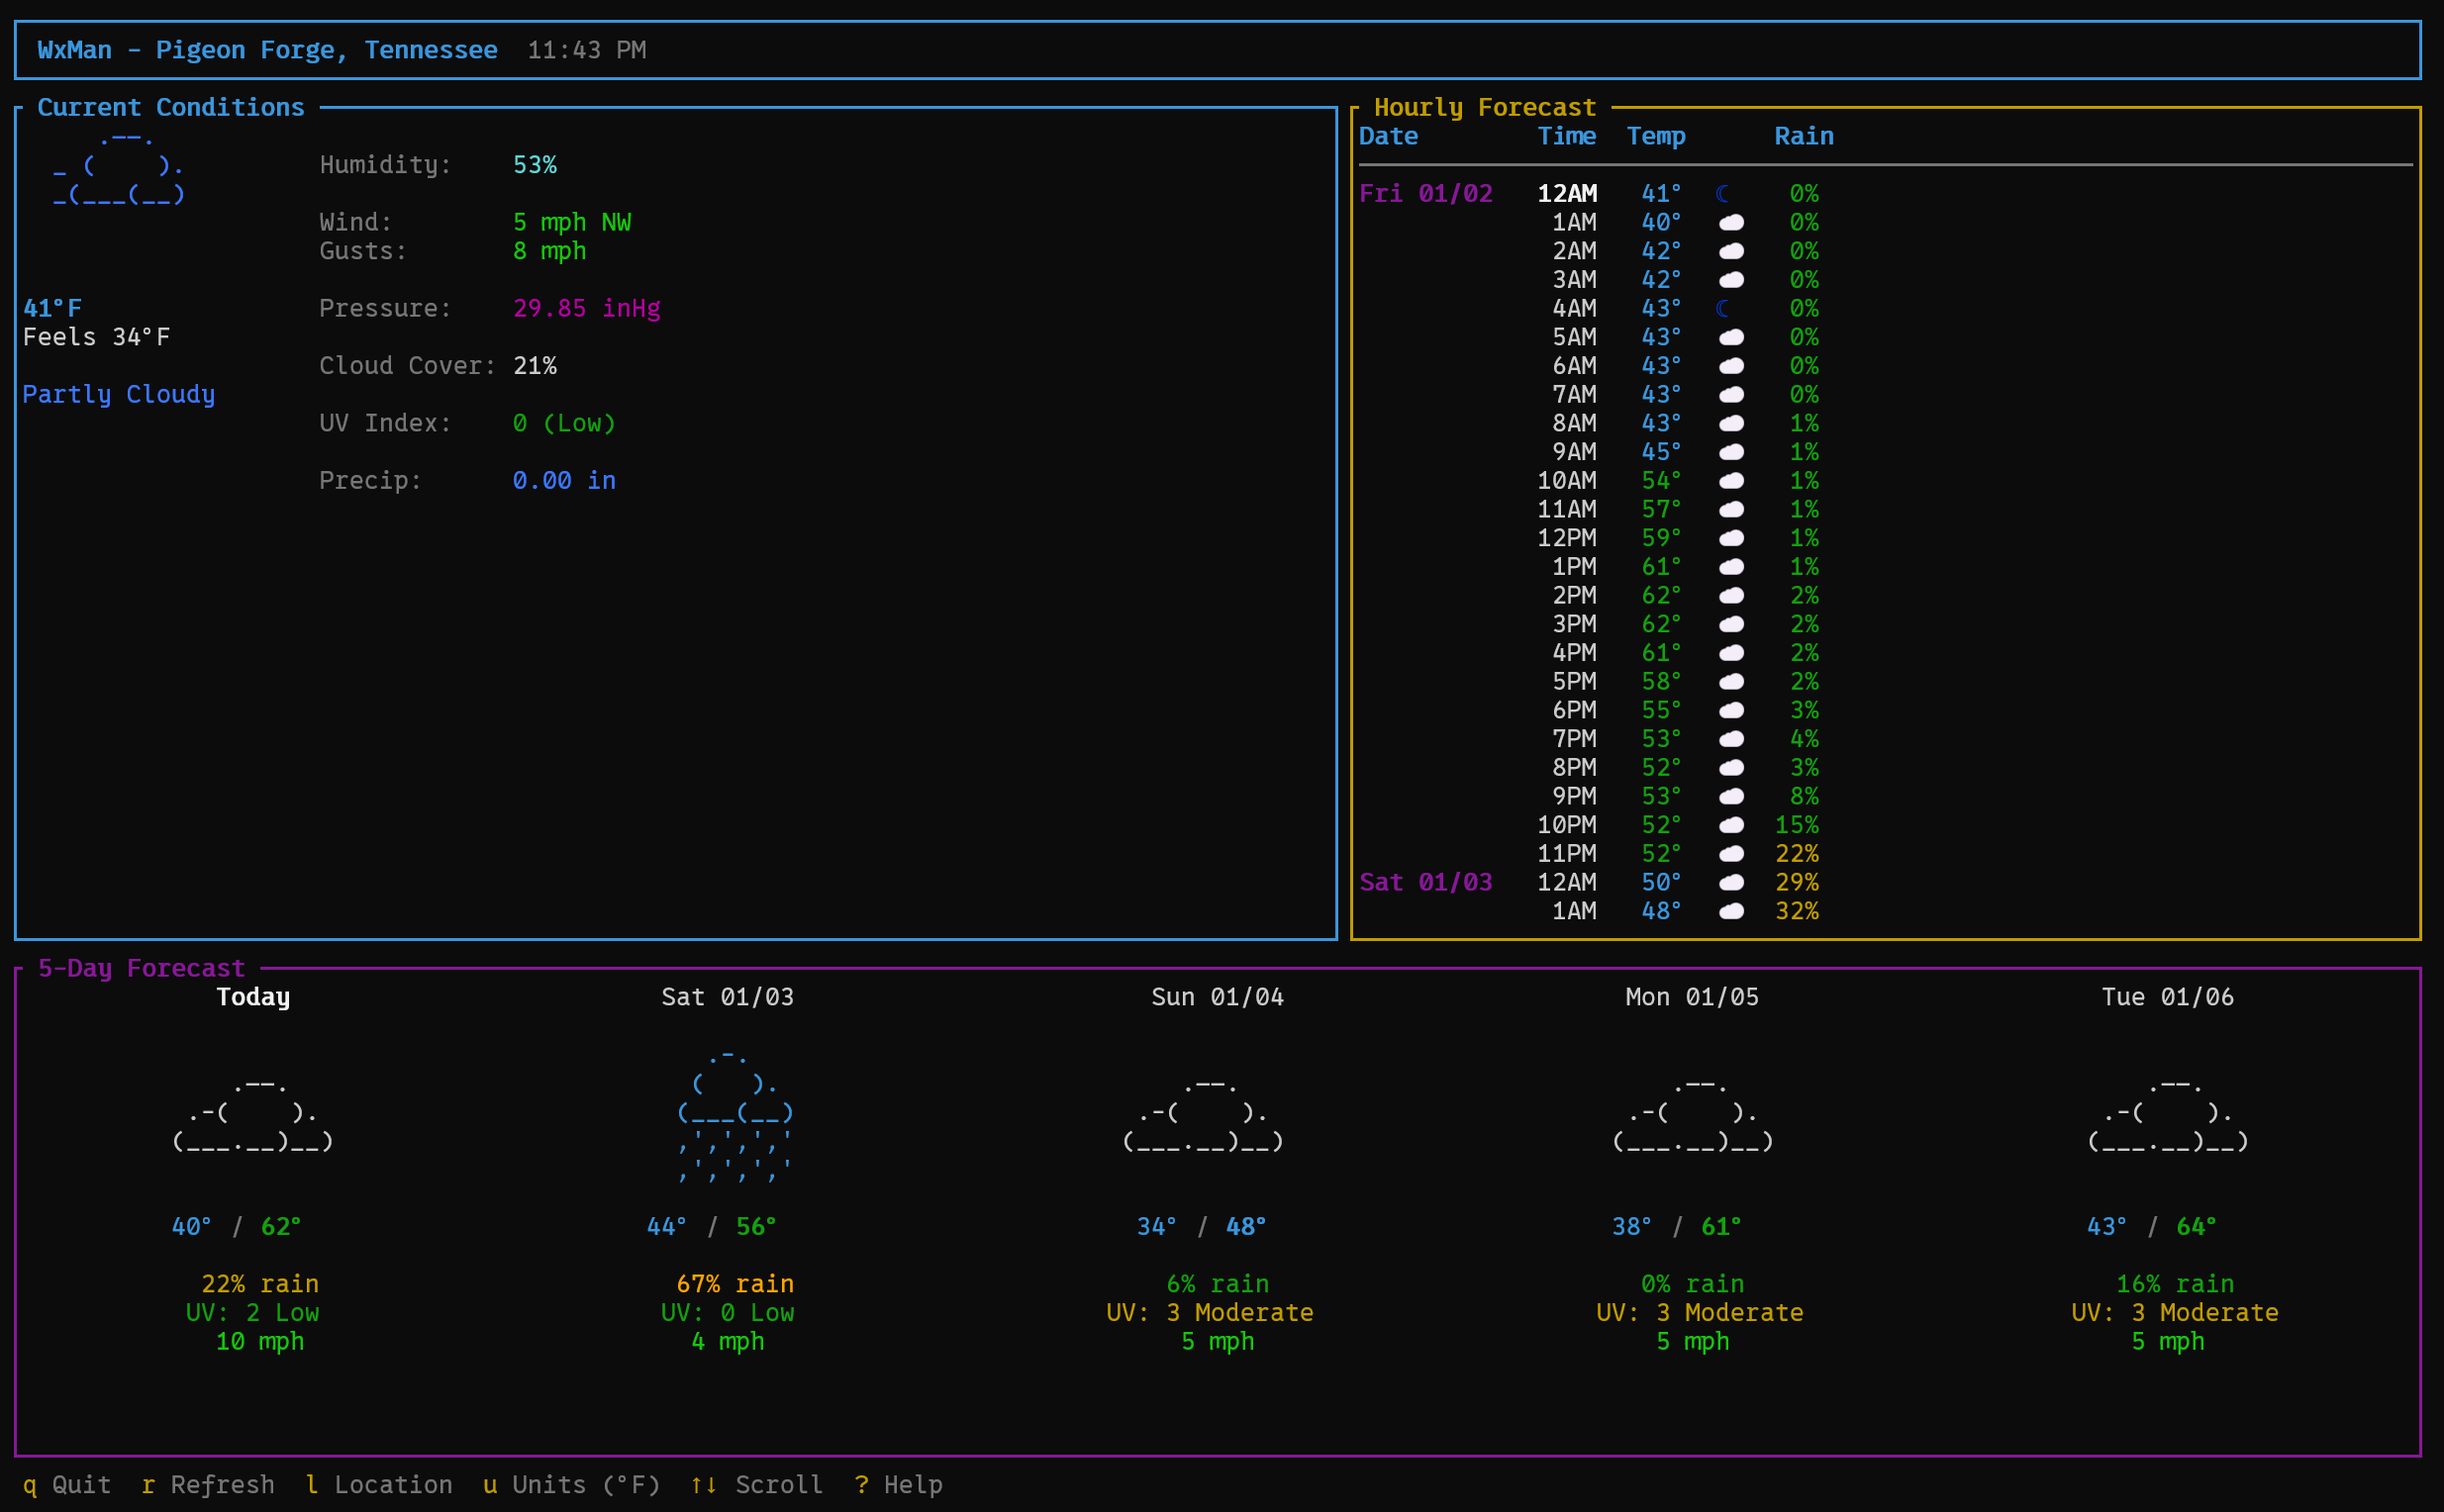
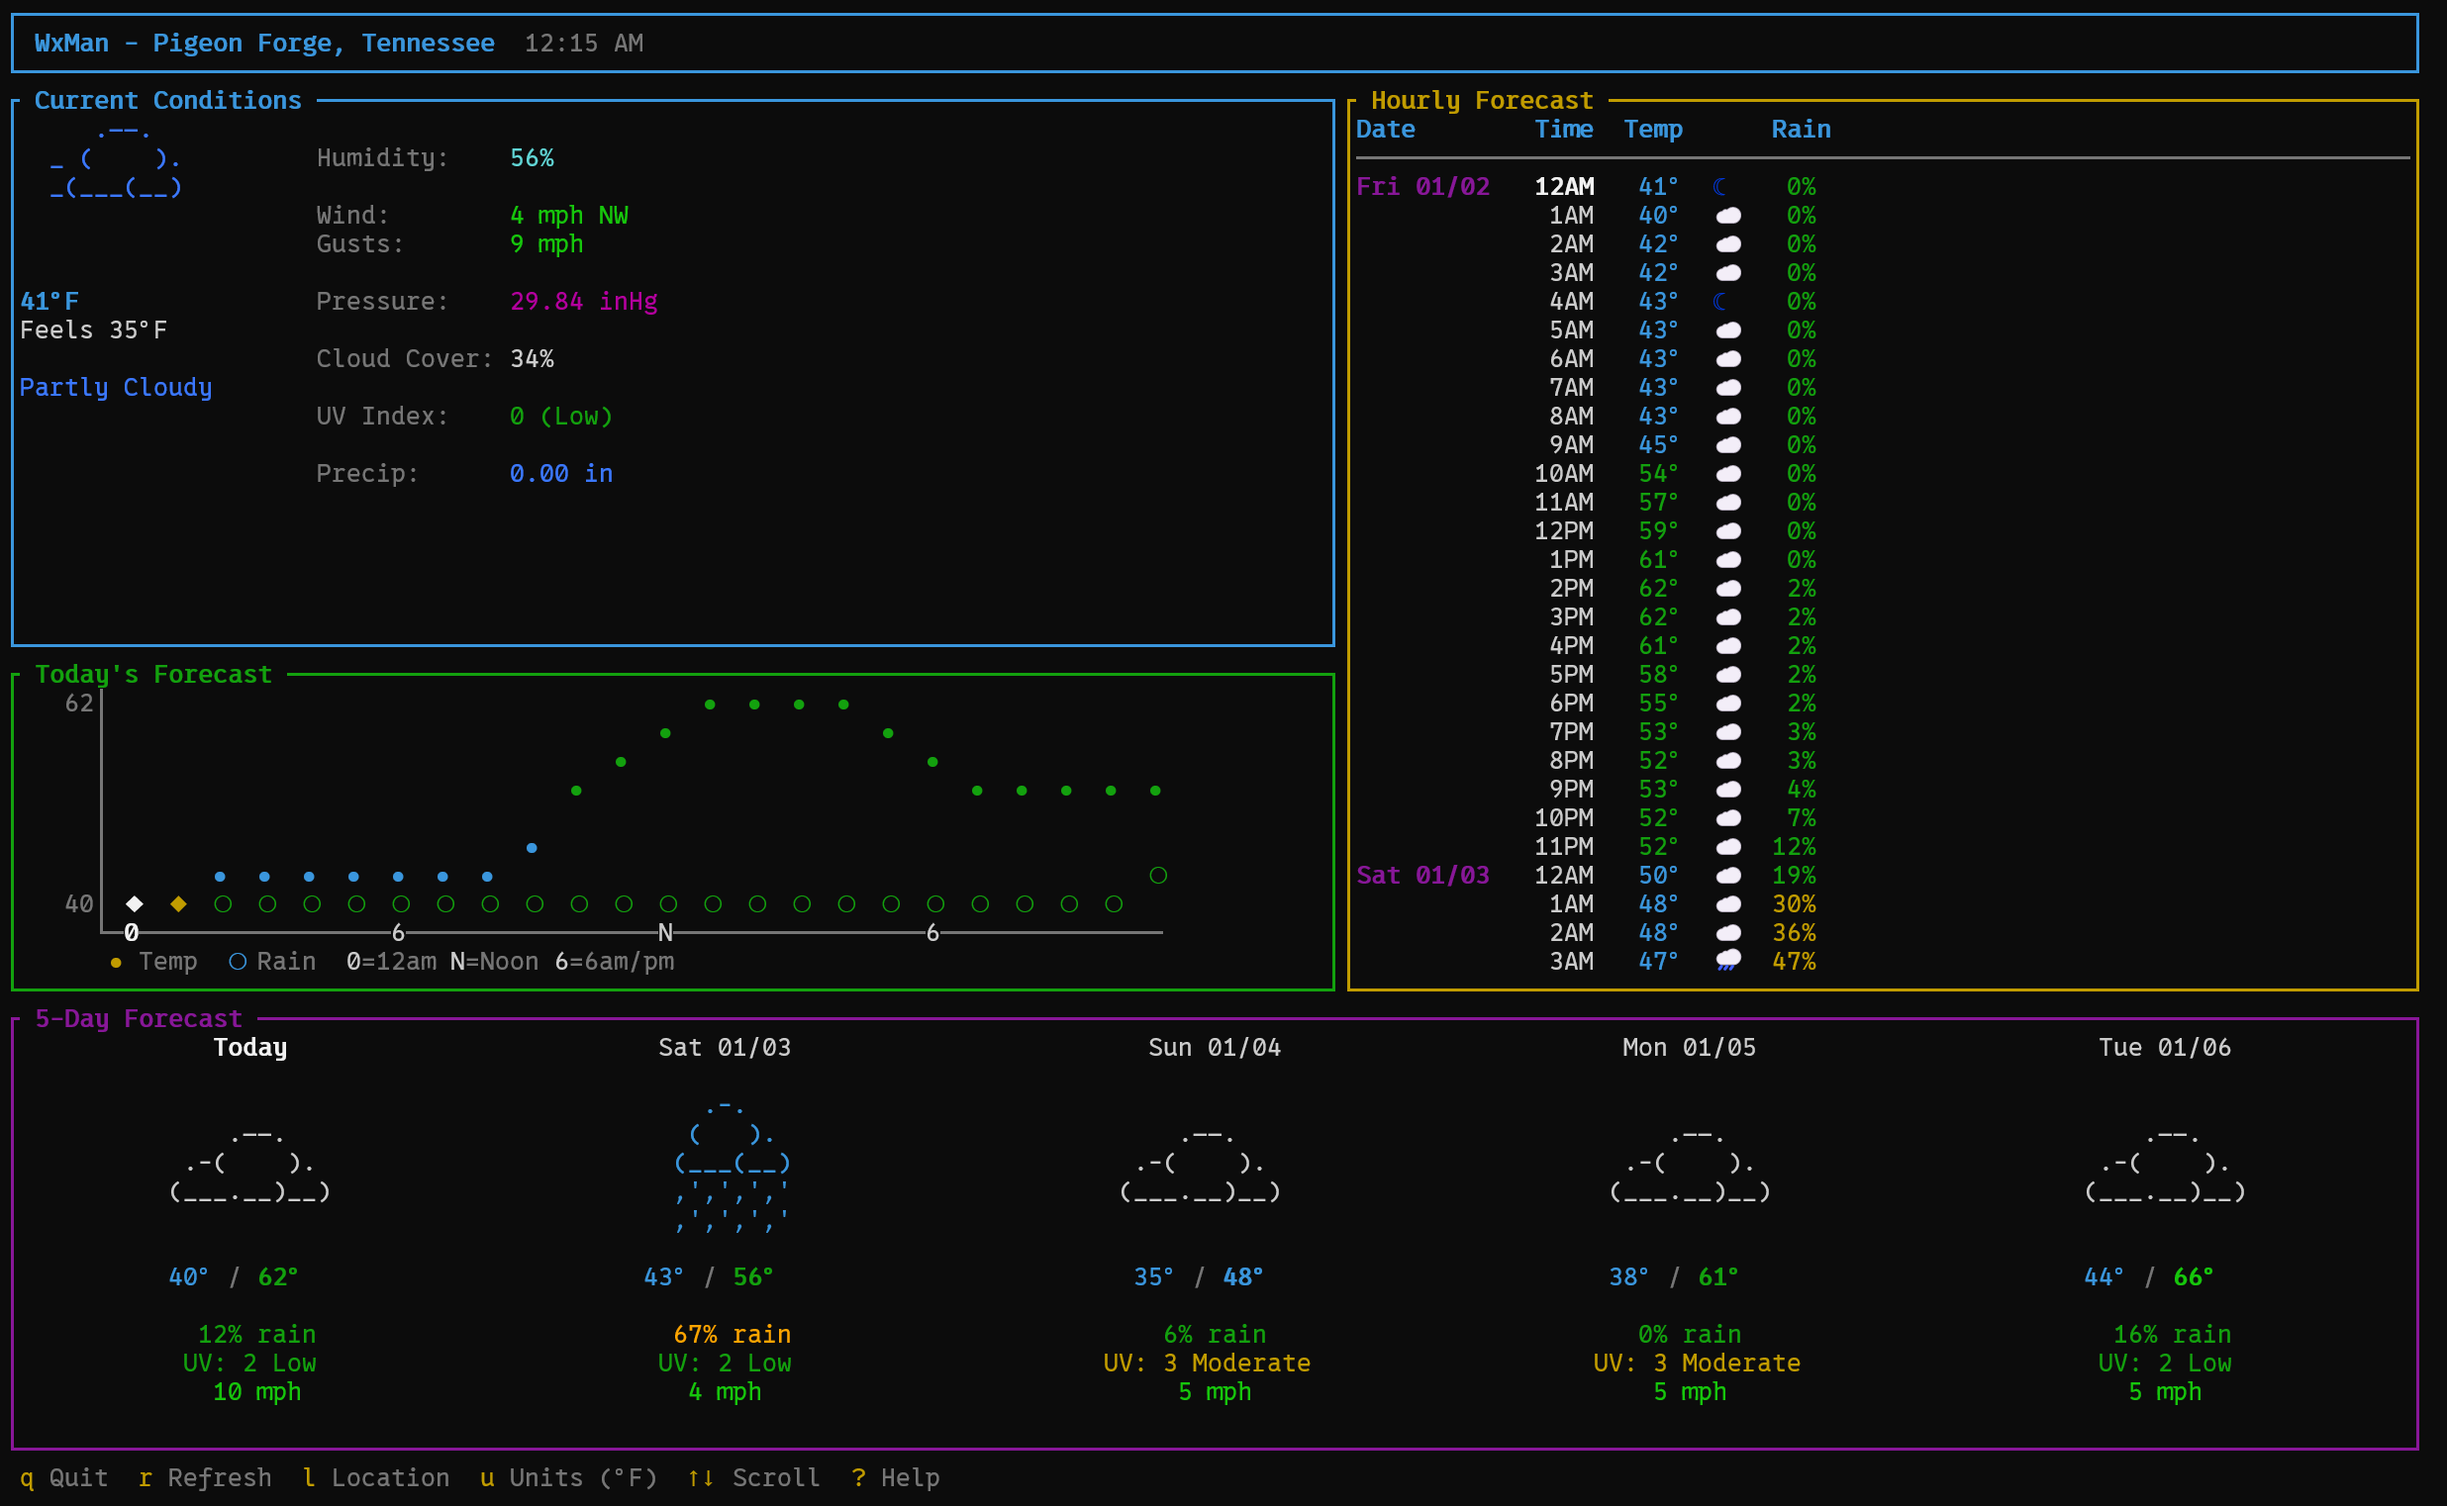
feat: Introduce hourly temperature and precipitation chart and refactor UI layout to integrate it.

diff --git a/src/ui/chart.rs b/src/ui/chart.rs
@@ -1,0 +1,250 @@
+use ratatui::{
+    layout::Rect,
+    style::{Color, Modifier, Style},
+    text::{Line, Span},
+    widgets::{Block, Borders, Paragraph},
+    Frame,
+};
+
+use crate::config::UnitsConfig;
+use crate::models::HourlyForecast;
+use chrono::{Local, NaiveDateTime, Timelike};
+
+const CHART_HEIGHT: usize = 8;
+
+pub fn render_today_chart(
+    frame: &mut Frame,
+    area: Rect,
+    hourly: &[HourlyForecast],
+    units: &UnitsConfig,
+) {
+    let block = Block::default()
+        .title(" Today's Forecast ")
+        .title_style(Style::default().fg(Color::Green).add_modifier(Modifier::BOLD))
+        .borders(Borders::ALL)
+        .border_style(Style::default().fg(Color::Green));
+
+    let inner = block.inner(area);
+    frame.render_widget(block, area);
+
+    let now = Local::now();
+    let today = now.date_naive();
+    let current_hour = now.hour();
+
+    // Get all of today's hourly data (full 24 hours)
+    let today_hours: Vec<&HourlyForecast> = hourly
+        .iter()
+        .filter(|h| {
+            if let Ok(dt) = NaiveDateTime::parse_from_str(&h.time, "%Y-%m-%dT%H:%M") {
+                dt.date() == today
+            } else {
+                false
+            }
+        })
+        .collect();
+
+    if today_hours.is_empty() || inner.width < 20 || inner.height < 6 {
+        let msg = Paragraph::new("Not enough data");
+        frame.render_widget(msg, inner);
+        return;
+    }
+
+    // Find temperature range
+    let temps: Vec<f64> = today_hours.iter().map(|h| h.temperature).collect();
+    let temp_min = temps.iter().cloned().fold(f64::INFINITY, f64::min);
+    let temp_max = temps.iter().cloned().fold(f64::NEG_INFINITY, f64::max);
+    let temp_range = (temp_max - temp_min).max(1.0);
+
+    // Calculate available width for the chart (leave room for labels)
+    let label_width = 6; // "100% " or " 72° "
+    let chart_width = (inner.width as usize).saturating_sub(label_width);
+    
+    if chart_width == 0 || today_hours.is_empty() {
+        return;
+    }
+
+    // Calculate how many characters per hour we can use
+    let chars_per_hour = (chart_width / today_hours.len()).max(1);
+    let total_hours = today_hours.len();
+
+    // Build the chart
+    let mut lines: Vec<Line> = Vec::new();
+
+    let is_fahrenheit = units.temperature == crate::config::TemperatureUnit::Fahrenheit;
+    
+    // Chart rows (from top to bottom: high temp to low temp)
+    for row in 0..CHART_HEIGHT {
+        let mut spans: Vec<Span> = Vec::new();
+        
+        // Left label
+        if row == 0 {
+            spans.push(Span::styled(
+                format!("{:>5}", temp_max as i32),
+                Style::default().fg(Color::DarkGray),
+            ));
+        } else if row == CHART_HEIGHT - 1 {
+            spans.push(Span::styled(
+                format!("{:>5}", temp_min as i32),
+                Style::default().fg(Color::DarkGray),
+            ));
+        } else {
+            spans.push(Span::raw("     "));
+        }
+        
+        // Separator
+        spans.push(Span::styled("│", Style::default().fg(Color::DarkGray)));
+
+        // Chart content - draw each hour with proper spacing
+        for (i, hour) in today_hours.iter().enumerate() {
+            let hour_num = if let Ok(dt) = NaiveDateTime::parse_from_str(&hour.time, "%Y-%m-%dT%H:%M") {
+                dt.hour()
+            } else {
+                0
+            };
+            
+            let is_current = hour_num == current_hour;
+
+            // Calculate temperature position (0 = bottom, CHART_HEIGHT-1 = top)
+            let temp_normalized = (hour.temperature - temp_min) / temp_range;
+            let temp_row = ((CHART_HEIGHT - 1) as f64 * (1.0 - temp_normalized)).round() as usize;
+
+            // Calculate rain position
+            let rain_normalized = hour.precipitation_probability as f64 / 100.0;
+            let rain_row = ((CHART_HEIGHT - 1) as f64 * (1.0 - rain_normalized)).round() as usize;
+
+            // Determine what to draw at this position
+            let (ch, color) = if row == temp_row && row == rain_row {
+                // Both temp and rain at same position
+                ('◆', if is_current { Color::White } else { Color::Yellow })
+            } else if row == temp_row {
+                // Temperature point
+                let temp_color = if is_fahrenheit {
+                    temp_to_color(hour.temperature)
+                } else {
+                    temp_to_color(hour.temperature * 9.0 / 5.0 + 32.0)
+                };
+                ('●', if is_current { Color::White } else { temp_color })
+            } else if row == rain_row {
+                // Rain point
+                let rain_color = rain_to_color(hour.precipitation_probability);
+                ('○', if is_current { Color::White } else { rain_color })
+            } else {
+                (' ', Color::DarkGray)
+            };
+
+            let style = if is_current {
+                Style::default().fg(color).add_modifier(Modifier::BOLD)
+            } else {
+                Style::default().fg(color)
+            };
+
+            // Draw the character centered in its slot
+            let padding_before = (chars_per_hour - 1) / 2;
+            let padding_after = chars_per_hour - 1 - padding_before;
+            
+            if padding_before > 0 {
+                spans.push(Span::raw(" ".repeat(padding_before)));
+            }
+            spans.push(Span::styled(ch.to_string(), style));
+            if padding_after > 0 && i < total_hours - 1 {
+                spans.push(Span::raw(" ".repeat(padding_after)));
+            }
+        }
+
+        lines.push(Line::from(spans));
+    }
+
+    // Add hour labels at bottom
+    let mut hour_spans: Vec<Span> = Vec::new();
+    hour_spans.push(Span::raw("     ")); // Label spacer
+    hour_spans.push(Span::styled("└", Style::default().fg(Color::DarkGray)));
+    
+    for (i, hour) in today_hours.iter().enumerate() {
+        let hour_num = if let Ok(dt) = NaiveDateTime::parse_from_str(&hour.time, "%Y-%m-%dT%H:%M") {
+            dt.hour()
+        } else {
+            0
+        };
+        
+        let is_current = hour_num == current_hour;
+        
+        // Show hour label at key hours or current
+        let show_label = hour_num % 6 == 0 || is_current;
+        
+        let label_char = if show_label {
+            if hour_num == 0 {
+                "0"
+            } else if hour_num == 6 {
+                "6"
+            } else if hour_num == 12 {
+                "N"
+            } else if hour_num == 18 {
+                "6"
+            } else {
+                &format!("{}", hour_num % 12)
+            }
+        } else {
+            "─"
+        };
+
+        let style = if is_current {
+            Style::default().fg(Color::White).add_modifier(Modifier::BOLD)
+        } else if show_label {
+            Style::default().fg(Color::Gray)
+        } else {
+            Style::default().fg(Color::DarkGray)
+        };
+        
+        // Center label in slot
+        let padding_before = (chars_per_hour - 1) / 2;
+        let padding_after = chars_per_hour - 1 - padding_before;
+        
+        if padding_before > 0 {
+            hour_spans.push(Span::styled("─".repeat(padding_before), Style::default().fg(Color::DarkGray)));
+        }
+        hour_spans.push(Span::styled(label_char.to_string(), style));
+        if padding_after > 0 && i < total_hours - 1 {
+            hour_spans.push(Span::styled("─".repeat(padding_after), Style::default().fg(Color::DarkGray)));
+        }
+    }
+    lines.push(Line::from(hour_spans));
+
+    // Add legend
+    lines.push(Line::from(vec![
+        Span::raw("      "),
+        Span::styled("●", Style::default().fg(Color::Yellow)),
+        Span::styled(" Temp  ", Style::default().fg(Color::DarkGray)),
+        Span::styled("○", Style::default().fg(Color::Cyan)),
+        Span::styled(" Rain  ", Style::default().fg(Color::DarkGray)),
+        Span::styled("0", Style::default().fg(Color::Gray)),
+        Span::styled("=12am ", Style::default().fg(Color::DarkGray)),
+        Span::styled("N", Style::default().fg(Color::Gray)),
+        Span::styled("=Noon ", Style::default().fg(Color::DarkGray)),
+        Span::styled("6", Style::default().fg(Color::Gray)),
+        Span::styled("=6am/pm", Style::default().fg(Color::DarkGray)),
+    ]));
+
+    let chart = Paragraph::new(lines);
+    frame.render_widget(chart, inner);
+}
+
+fn temp_to_color(temp_f: f64) -> Color {
+    match temp_f as i32 {
+        ..=32 => Color::LightBlue,
+        33..=50 => Color::Cyan,
+        51..=65 => Color::Green,
+        66..=75 => Color::LightGreen,
+        76..=85 => Color::Yellow,
+        86..=95 => Color::Rgb(255, 165, 0),
+        _ => Color::Red,
+    }
+}
+
+fn rain_to_color(rain: i32) -> Color {
+    match rain {
+        0..=20 => Color::Green,
+        21..=50 => Color::Yellow,
+        51..=70 => Color::Rgb(255, 165, 0),
+        _ => Color::Cyan,
+    }
+}

diff --git a/src/ui/render.rs b/src/ui/render.rs
@@ -7,6 +7,7 @@ use ratatui::{
 };
 
 use crate::app::{App, AppState, UnitMenuField};
+use crate::ui::chart::render_today_chart;
 use crate::ui::current::render_current_weather;
 use crate::ui::daily::render_daily_forecast;
 use crate::ui::hourly::render_hourly_forecast;
@@ -88,33 +89,47 @@ fn render_main_content(frame: &mut Frame, area: Rect, app: &App) {
         }
         AppState::Ready => {
             if let Some(weather) = &app.weather {
-                // Split into top and bottom sections
-                let chunks = Layout::default()
+                // Split into top section and bottom (5-day forecast full width)
+                let main_rows = Layout::default()
                     .direction(Direction::Vertical)
                     .constraints([
-                        Constraint::Min(15),   // Current + Hourly
-                        Constraint::Length(18), // Daily forecast
+                        Constraint::Min(20),     // Top: Current + Chart + Hourly
+                        Constraint::Length(16),  // Bottom: 5-Day forecast (full width)
                     ])
                     .split(area);
 
-                // Split top section into Current and Hourly
-                let top_chunks = Layout::default()
+                // Split top section into left (Current + Chart) and right (Hourly)
+                let top_columns = Layout::default()
                     .direction(Direction::Horizontal)
                     .constraints([
-                        Constraint::Percentage(55), // Current weather
-                        Constraint::Percentage(45), // Hourly forecast
+                        Constraint::Percentage(55), // Left: Current + Chart
+                        Constraint::Percentage(45), // Right: Hourly
                     ])
-                    .split(chunks[0]);
+                    .split(main_rows[0]);
 
-                render_current_weather(frame, top_chunks[0], &weather.current, &app.config.units);
+                // Split left column into Current and Chart
+                let left_chunks = Layout::default()
+                    .direction(Direction::Vertical)
+                    .constraints([
+                        Constraint::Min(15),     // Current conditions (fills remaining space)
+                        Constraint::Length(12),  // Today's chart (fixed height)
+                    ])
+                    .split(top_columns[0]);
+
+                render_current_weather(frame, left_chunks[0], &weather.current, &app.config.units);
+                render_today_chart(frame, left_chunks[1], &weather.hourly, &app.config.units);
+                
+                // Hourly takes the full right column of top section
                 render_hourly_forecast(
                     frame,
-                    top_chunks[1],
+                    top_columns[1],
                     &weather.hourly,
                     &app.config.units,
                     app.hourly_scroll,
                 );
-                render_daily_forecast(frame, chunks[1], &weather.daily, &app.config.units);
+
+                // 5-Day forecast at bottom, full width
+                render_daily_forecast(frame, main_rows[1], &weather.daily, &app.config.units);
             }
         }
     }

diff --git a/src/ui/mod.rs b/src/ui/mod.rs
@@ -1,3 +1,4 @@
+pub mod chart;
 pub mod current;
 pub mod daily;
 pub mod hourly;
